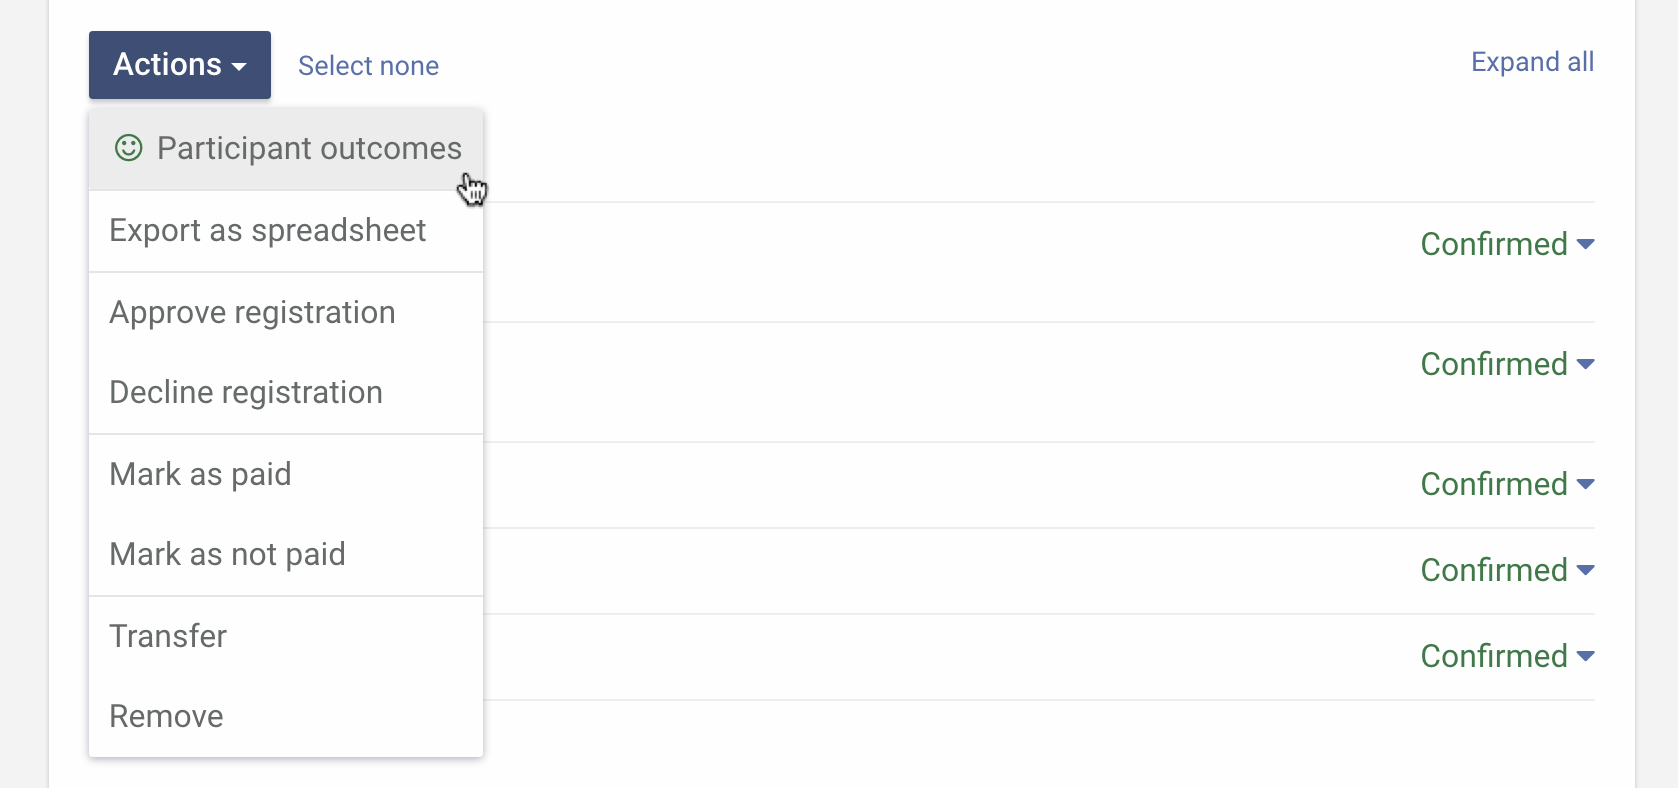
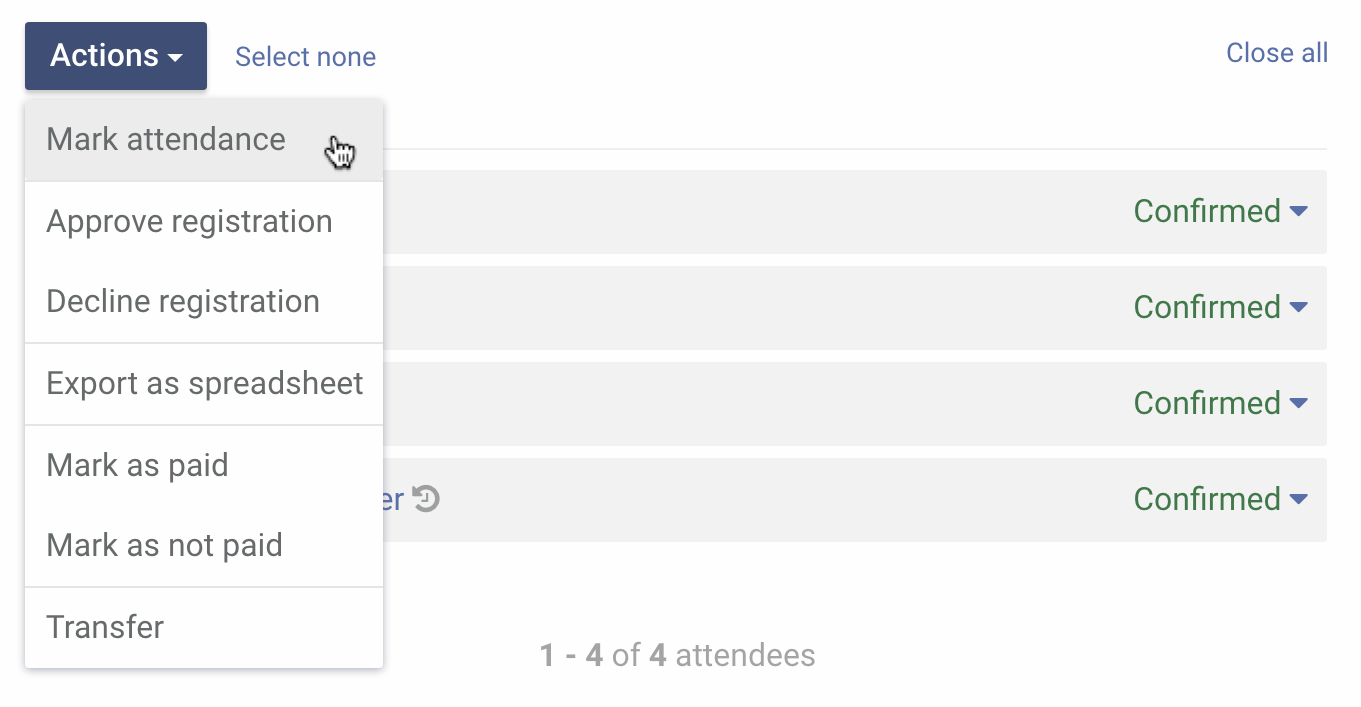
Updated managing booking

diff --git a/bookings/managing-attendees.html b/bookings/managing-attendees.html
@@ -36,22 +36,24 @@
       <!-- Managing attendees -->
       <li>
         <h4>Adding an attendee manually</h4>
-        <p>In situations where you may have to add a participant manually to a booking, make sure that the participant has an account with CSDS first.</p>
+        <p>In situations where you may have to add an attendee manually to a booking, make sure that the attendee has an account with CSDS first.</p>
+        <!--
         <p class="details">If you need to familiarise yourself with the sign-up process, learn <a>how users register</a> for an account.</p>
+      -->
 
         <p>To add an attendee manually, click <strong>Add attendee</strong></p>
         <img src="../images/managing-a-booking/8.png" />      
 
-        <p>In the pop-up that appears, enter the name of the participant you want to add.</p>
+        <p>In the popup that appears, enter the name of the attendee you want to add.</p>
         <img src="../images/managing-a-booking/10.png" />      
 
-        <p>Click the participant's name in the results area to add them in the booking.</p>
+        <p>Click the attendee's name in the results area to add them in the booking.</p>
         <img src="../images/managing-a-booking/12.png" />      
 
-        <p>Choose a course price for the participant you are adding. Then click <strong>Add</strong>.</p>
+        <p>Choose a course price for the attendee you are adding. Then click <strong>Add</strong>.</p>
         <img src="../images/managing-a-booking/13.png" />      
 
-        <p>And you're done. Just take note that an attendee that has been added manually is considered confirmed (approved and paid).</p>   
+        <p>And you're done. Just take note that an attendee that has been added manually goes straight to Awaiting payment.</p>   
         <img src="../images/managing-a-booking/14.png" />           
       </li>
 
@@ -61,31 +63,33 @@
         <p>When someone registers for a course, they receive an email that they need to be approved first. Your Pocket Centre contact also gets an email every time someone registers for any of your Pocket Centre courses. </p>
 
         <p class="details">Learn how to <a>update your Pocket Centre contact details</a>.</p>
-        <p>This is how a participant who needs approval appears in the attendees section.</p>    
+        <p>This is how an attendee who needs approval appears in the attendees section.</p>    
         <img src="../images/managing-a-booking/15.png" />      
 
-        <p>To approve a registration, select the participant you are approving.<br />Yes, you can select multiple participants at once.</p>
+        <p>To approve a registration, select the attendee you are approving.<br />Yes, you can select multiple attendees at once.</p>
         <img src="../images/managing-a-booking/16.png" />      
+
+        <p></p>
 
         <p>Then click <strong>Approve registration</strong>.</p>
         <img src="../images/managing-a-booking/17.png" />      
 
-        <p>Once a participant is approved, they will get an email letting them know that someone from your Pocket Centre will contact them to arrange payment. That participant's booking status will change to <strong>Awaiting Payment</strong>.</p>
+        <p>Once an attendee is approved, they will get an email letting them know that someone from your Pocket Centre will contact them to arrange payment. That attendee's booking status will change to <strong>Awaiting Payment</strong>.</p>
         <img src="../images/managing-a-booking/18.png" />      
         <br /><br />
-        <h4>Can I decline a participant's registration?</h4> 
-        <p>Yes. Just select the participant you want to decline. From the actions dropdown, click <strong>Decline registration</strong>. An email is sent to the participant informing them about this action.</p>    
+        <h4>Can I decline an attendee's registration?</h4> 
+        <p>Yes. Just select the attendee you want to decline. From the actions dropdown, click <strong>Decline registration</strong>. An email is sent to the attendee informing them about this action.</p>    
 
         <h4>Can I approve someone that I declined before?</h4> 
-        <p>As long as the course is not yet full, yes you can. If a participant has previously been marked as Paid, their status will go from <strong>Declined</strong> to <strong>Confirmed</strong> right away.</p>              
+        <p>As long as the course is not yet full, yes you can. If an attendee has previously been marked as Paid, their status will go from <strong>Declined</strong> to <strong>Confirmed</strong> right away.</p>              
       </li>      
 
       <!-- Managing attendees -->
       <li>
-        <h4>Marking a participant as paid</h4>
-        <p>Marking a participant as paid confirms their booking to the course. Once marked, they get an email confirming their registration with the details of the eLearning (if applicable) and their face-to-face course.</p>
+        <h4>Marking an attendee as paid</h4>
+        <p>Marking an attendee as paid confirms their booking to the course. Once marked, they get an email confirming their registration with the details of the eLearning (if applicable) and their face-to-face course.</p>
 
-        <p>To mark a participant as paid, select the participant you want to mark.</p>
+        <p>To mark an attendee as paid, select the attendee you want to mark.</p>
         <img src="../images/managing-a-booking/19.png" />   
 
         <p>From the actions dropdown, click <strong>Mark as paid</strong>.</p>
@@ -95,41 +99,44 @@
         <img src="../images/managing-a-booking/21.png" />   
         <br />
         <br />
-        <h4>Can I mark a participant as not paid?</h4> 
-        <p>Yes. Select the participant you want to mark as not paid from the list. From the actions dropdown, click <strong>Mark as not paid</strong>. No email is sent to the participant when you do this.</p>       
+        <h4>Can I mark an attendee as not paid?</h4> 
+        <p>Yes. Select the attendee you want to mark as not paid from the list. From the actions dropdown, click <strong>Mark as not paid</strong>. No email is sent to the attendee when you do this.</p>       
       </li>
 
       <!-- Managing attendees -->
       <li>
-        <h4>Removing an attendee</h4>
-        <p>To remove an attendee, select the participant you want to mark as not paid from the list. From the actions dropdown, click <strong>Remove</strong>. No email is sent to the participant when you do this.</p>
+        <h4>Deleting an attendee</h4>
+        <p>To delete an attendee, expand the attendee you want to delete and click <strong>Delete</strong>.</p>
+        <img src="../images/managing-a-booking/34.png" />   
+
+        <p>A popup will appear that will ask you to confirm the action. Click <strong>Delete</strong> to confirm the action. No email is sent to the attendee when you do this.</p>
+        <img src="../images/managing-a-booking/35.png" />   
+
         <br /><br />
-        <h4>Can I add an attendee that I have removed before?</h4>
+        <h4>Can I add an attendee that I have deleted before?</h4>
         <p>Yes. Please refer to <a>Adding an attendee manually</a>.</p>
       </li>
 
       <!-- Managing attendees -->
       <li>
         <h4>Reserved spots</h4>
-        <p>Reserved spots are used to limit the number of participants that can register to the maximum number of participants minus the reserved spots. Remember that a reserved spot is considered "confirmed". </p>
-        <p>Only add a reserved spot if you can guarantee that the participant will pay.</p>
+        <p>Reserved spots are used to limit the number of attendees that can register to the maximum number of attendees minus the reserved spots. Remember that a reserved spot is considered "confirmed". </p>
+        <p>Only add a reserved spot if you can guarantee that the attendee will pay.</p>
 
         <p>To add a reserved spot, click <strong>Add reserved spot</strong>.</p>
 
         <img src="../images/managing-a-booking/7.png" />      
 
-        <p>The reserved spot should appear at the top of the list.</p>
+        <p>The reserved spot should appear at the top of the list. To remove a reserved spot, just select a reserved spot you want to remove then click <strong>Delete</strong>. This action will immediately remove the selected reserved spot.</p>
 
         <img src="../images/managing-a-booking/8.png" />                             
 
-        <p>To remove a reserved spot, just select a reserved spot you want to remove then click <strong>Actions</strong> and select <strong>Remove</strong>. This action will immediately remove the selected reserved spot. </p>
-        <img src="../images/managing-a-booking/9.png" />          
       </li>
 
       <!-- Managing attendees -->
       <li>
         <h4>Exporting attendees list</h4>
-        <p>To export a list, select the participants you want included and from the actions dropdown, click <strong>Export as spreadsheet</strong>. This will download a CSV file that you can open in your preferred spreadsheet software.</p>
+        <p>To export a list, select the attendees you want included and from the actions dropdown, click <strong>Export as spreadsheet</strong>. This will download a CSV file that you can open in your preferred spreadsheet software.</p>
 
         <p>Here's a sample of what the spreadsheet contains:</p>
         <img src="../images/managing-a-booking/22.png" />                  
@@ -138,23 +145,23 @@
       <!-- Managing attendees -->
       <li>
         <h4>Marking course outcomes</h4>
-        <p>Course certificates are generated only when participant outcomes are recorded. eLearning certificates are generated automatically when the participant completes them and can be accessed through their own account.</p>
+        <p>Course certificates are generated only when attendee outcomes are recorded. eLearning certificates are generated automatically when the attendee completes them and can be accessed through their own account.</p>
 
-        <p>Marking course outcomes is a two-step process. The first step is to record a participant's attendance. To do this, select a participant and from the actions dropdown click <strong>Participant outcomes</strong>.</p>
+        <p>Marking course outcomes is a two-step process. The first step is to record an attendee's attendance. To do this, select an attendee and from the actions dropdown click <strong>Participant outcomes</strong>.</p>
 
         <img src="../images/managing-a-booking/23.png" />          
 
-        <p>In the modal that appears, select whether the participant has attended or not. Then click <strong>Save</strong>.</p>
+        <p>In the popup that appears, select whether the attendee has attended or not. Then click <strong>Save</strong>.</p>
 
         <img src="../images/managing-a-booking/25.png" />                  
 
-        <p>If a participant attended, a course outcome also has to be recorded. Comments are optional. Click <strong>Save</strong> to set the participant outcome. </p>
+        <p>If an attendance is marked, a course outcome also has to be recorded. Comments are optional. Click <strong>Save</strong> to set the attendee outcome. </p>
 
-        <p class="details">Depending on the course, the options available are <strong>Passed</strong>, <strong>Passed (Provisional)</strong>, <strong>Failed</strong>, <strong>Completed</strong> and <strong>Not completed</strong>. </p>
+        <p class="details">Depending on the course, the options available are <strong>Passed</strong>, <strong>Passed (Provisional)</strong> and <strong>Failed</strong>. </p>
 
         <img src="../images/managing-a-booking/26.png" />                  
 
-        <p>Upon saving, participants who passed (including the provisional) will get access to their course certificates thru their accounts.</p>
+        <p>Upon saving, attendees who passed (including the provisional) will get access to their course certificates thru their accounts.</p>
         
         <img src="../images/managing-a-booking/27.png" />                          
       </li>
@@ -163,11 +170,11 @@
       <li>
         <h4>Adding faculty</h4>
         <p>Adding faculty is a great way to roster schedule and availability of your staff in the Pocket Centre. Note that all faculty must have an account with CSDS and have the Faculty role.</p>
-        <p><a>Contact us</a> if you can't find a faculty in your list.</p>
+        <p><a href="https://csds.qld.edu.au/contact/">Contact us</a> if you can't find a faculty in your list.</p>
         <p>To add a faculty, click <strong>Add faculty</strong>.</p>
         <img src="../images/managing-a-booking/28.png" />    
 
-        <p>In the pop-up that appears, click the name of the faculty you want to add. You can navigate through the list or use the search bar to filter the results.</p>
+        <p>In the popup that appears, click the name of the faculty you want to add. You can navigate through the list or use the search bar to filter the results.</p>
         <img src="../images/managing-a-booking/30.png" /> 
 
         <p>Select the faculty's role for all the days of the course.</p>
@@ -176,7 +183,7 @@
         <p>Click <strong>Add</strong> to save the record.</p>
         <img src="../images/managing-a-booking/32.png" />            
 
-        <p>Repeat the process to add more faculty. To remove a faculty click <strong>Remove</strong>. </p>
+        <p>Repeat the process to add more faculty. To remove a faculty click <strong>Remove</strong>. Take note that removing a faculty in a booking, does not delete their account.</p>
         <img src="../images/managing-a-booking/33.png" />            
       </li>
 

diff --git a/getting-started/user-accounts.html b/getting-started/user-accounts.html
@@ -43,7 +43,7 @@
       <li>
         <p>To view a user account profile, head over to the Accounts section. Type in the name or email address of the user you want to search for and hit Enter.</p>
 
-        <p>Select the user from the list of results. A preview modal will be displayed with basic information about that user. Click <strong>View account</strong> to see the full user account profile.</p>
+        <p>Select the user from the list of results. A preview pane will be displayed with basic information about that user. Click <strong>View account</strong> to see the full user account profile.</p>
         <img src="../images/accounts/2.png" />
 
       </li>

diff --git a/resources/sharing.html b/resources/sharing.html
@@ -31,7 +31,7 @@
     <ul id="user-site" class="tutorial-list wrapper active">
       <li>
         <p>To share a resource, head over to the Resources page. Click the <strong>Share a resource</strong> button at the top right corner of the page.</p>
-        <p>Fill out all the required information in the Share a resource modal and click Submit. </p>        
+        <p>Fill out all the required information in the Share a resource popup and click Submit. </p>        
         <img src="../images/resources/1.png" />
 
       </li>

diff --git a/bookings/repeating-a-booking.html b/bookings/repeating-a-booking.html
@@ -39,7 +39,7 @@
       </li>
 
       <li>
-        <p>In this modal, you will have to specify the frequency and the number of occurences. Be reminded that, the dates will be relative to the date of the booking you are repeating.  </p>
+        <p>In this popup, you will have to specify the frequency and the number of occurences. Be reminded that, the dates will be relative to the date of the booking you are repeating.  </p>
 
         <img src="../images/repeating-a-booking/1.png" />
 

diff --git a/courses/adding-a-new-course.html b/courses/adding-a-new-course.html
@@ -34,7 +34,7 @@
       <li id="create-repo-step">
         <h4>To add a new course</h4>
         <p>Head over to the Courses section and at the top right of the page, click <strong>New course</strong>.</p>
-        <p>In the New course modal, select Face-to-Face.</p>
+        <p>In the New course popup, select Face-to-Face.</p>
         <img src="../images/creating-a-course/1.png" />
       </li>
 
